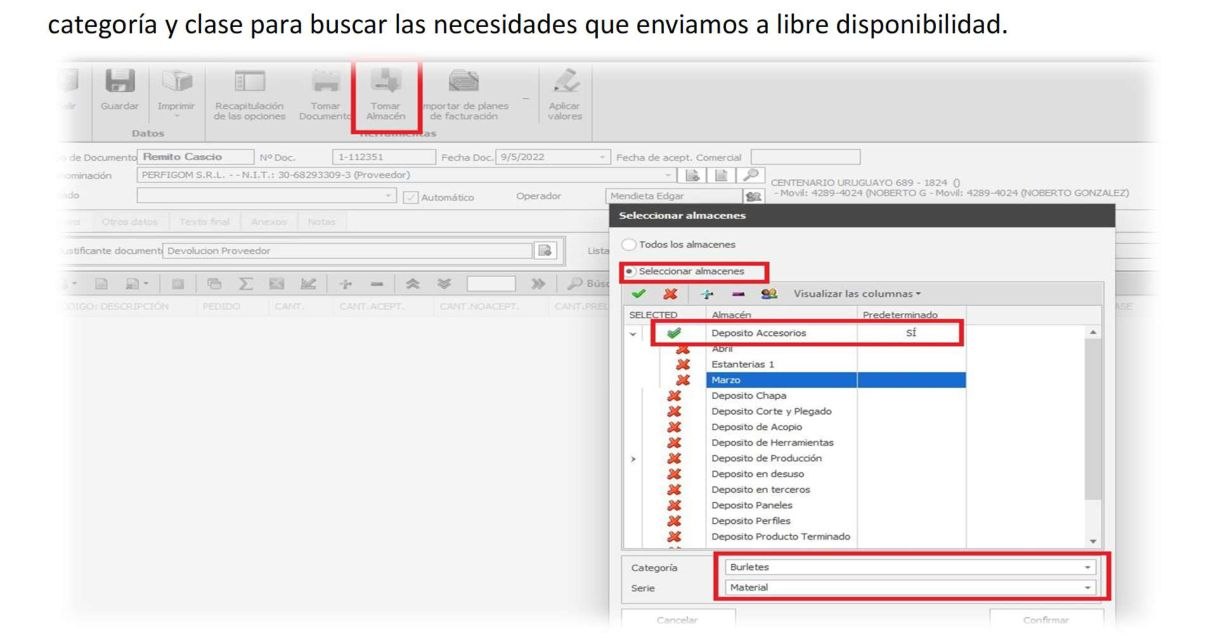
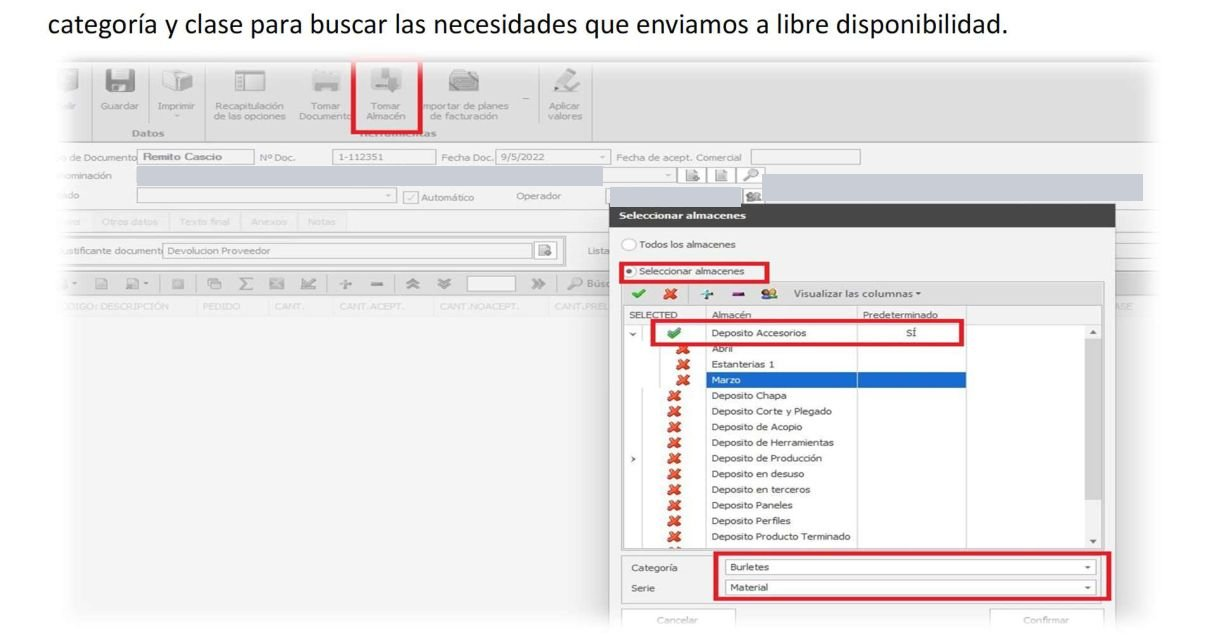
Versión 0.3: capturas con datos tapados y publicación en GitHub Pages
Claude-Session: https://claude.ai/code/session_01EoNv4eSFb2AGCLDC61AFfG

Changed region(s): [[0.0936, 0.25, 0.936, 0.3438]]

diff --git a/web/index.html b/web/index.html
@@ -5,6 +5,7 @@
 <meta name="viewport" content="width=device-width, initial-scale=1">
 <title>Guía FPGEST Cascio</title>
 <meta name="claude:viewport-fit-sides" content="cover">
+<meta name="robots" content="noindex, nofollow">
 <link rel="preconnect" href="https://fonts.googleapis.com">
 <link rel="stylesheet" href="https://fonts.googleapis.com/css2?family=IBM+Plex+Sans+Condensed:wght@500;600;700&family=IBM+Plex+Sans:ital,wght@0,400;0,500;0,600;1,400&family=IBM+Plex+Mono:wght@400;500&display=swap">
 <style>
@@ -362,6 +363,7 @@ section h2 { font-size: 21px; margin-bottom: 12px; }
   function renderPropuestas() {
     const pre = propPrefill || {};
     propPrefill = null;
+    if (P.formulario) { renderPropuestasFormulario(pre); return; }
     const guideOpts = D.modulos.map(m => m.guias.length
       ? `<optgroup label="${esc(m.titulo)}">${m.guias.map(g => `<option value="${esc(g.titulo)}"${pre.guia === g.id ? ' selected' : ''}>${esc(g.titulo)}</option>`).join('')}</optgroup>`
       : `<option value="Módulo ${esc(m.titulo)}">Módulo ${esc(m.titulo)} (en preparación)</option>`).join('');
@@ -457,6 +459,27 @@ section h2 { font-size: 21px; margin-bottom: 12px; }
       catch (_) { selectText(t); done(false); }
     };
   }
+  // Propuestas por formulario externo (Google Forms): se usa cuando datos.js tiene propuestas.formulario
+  function renderPropuestasFormulario(pre) {
+    const g = pre.guia && byId[pre.guia];
+    let url = P.formulario;
+    if (g && P.formularioCampoGuia) url += (url.includes('?') ? '&' : '?') + 'usp=pp_url&' + encodeURIComponent(P.formularioCampoGuia) + '=' + encodeURIComponent(g.titulo);
+    const plan = P.plan || [];
+    view.innerHTML = `
+      <div class="crumbs"><button type="button" data-go="">Inicio</button><span>/</span><span>Propuestas de mejora</span></div>
+      <div class="g-head"><h1>Propuestas de mejora</h1>
+        <p class="lead">¿Qué necesitás ver o hacer en el GEST que todavía no está en la guía? ¿Encontraste algo mal? Contalo en el formulario y se tiene en cuenta para la próxima actualización.</p></div>
+      <div class="panel guide-prop" style="border-top:1px solid var(--line)">
+        <div><b>${g ? 'Propuesta sobre: ' + esc(g.titulo) : 'Formulario de propuestas'}</b><p class="hint">Se abre en otra pestaña. Lleva dos minutos.</p></div>
+        <a class="btn" href="${esc(url)}" target="_blank" rel="noopener">Abrir el formulario</a>
+      </div>
+      <section><h2>Próximas actualizaciones</h2>
+        <div class="panel">${plan.length ? `<div class="road">${plan.map(r => `<div class="road-row"><b>${esc(r.titulo)}</b><span class="state ${esc(r.estado)}">${esc(ESTADOS[r.estado] || r.estado)}</span><small>${esc(r.detalle || '')}${r.pedido ? ' · Pedido por ' + esc(r.pedido) : ''}</small></div>`).join('')}</div>`
+          : `<p class="empty">Todavía no hay mejoras planificadas.</p>`}</div>
+      </section>`;
+    renderNav('propuestas');
+  }
+
   let bandejaFiltro = 'abiertas';
   async function renderBandeja() {
     view.innerHTML = `

diff --git a/web/datos.js b/web/datos.js
@@ -21,8 +21,8 @@
    ===================================================================== */
 
 window.GUIA_FPGEST = {
-  version: "0.2",
-  actualizado: "30/10/2026",
+  version: "0.3",
+  actualizado: "11/11/2026",
   autor: "",   // tu nombre, si querés que figure al pie
   fuente: "Implementación del ERP GEST (manual interno, 317 págs.)",
 
@@ -34,6 +34,11 @@ window.GUIA_FPGEST = {
        pedido: sector o persona que lo pidió (opcional) */
   propuestas: {
     direccion: "http://SERVIDOR:8080",
+    // Si la guía se publica en internet: pegar acá el enlace del formulario de Google.
+    // Con el enlace cargado, el botón "Proponer una mejora" abre el formulario (ya no usa el servidor).
+    formulario: "",
+    // Opcional: código del campo "Guía" del formulario (ej. "entry.123456789") para que llegue ya completo.
+    formularioCampoGuia: "",
     plan: [
       { titulo: "Videos en las guías", estado: "en-curso", detalle: "Ver el video del procedimiento desde cada guía, con acceso directo a cada paso." },
       { titulo: "Módulo Plantillas de importación", estado: "planificada", detalle: "Plantillas descargables, columnas obligatorias y errores típicos con su solución." },

diff --git a/README.md b/README.md
@@ -42,6 +42,24 @@ git remote add servidor F:\Emmegisoft\FPGEST_DATA\Guia_FPGEST_repo.git
 ```
 Después, cada tanto: `git push servidor main`.
 
+## Publicar en internet (GitHub Pages)
+
+La guía pública vive en **otro repositorio**, `guia-fpgest-web`, que contiene solo la carpeta `web/`.
+Este repositorio de trabajo queda **privado**: su historial guarda las capturas originales sin tapar.
+
+Una sola vez:
+1. Crear en GitHub el repositorio **público** `guia-fpgest-web` (vacío).
+2. Clonarlo **al lado** de este proyecto (misma carpeta padre).
+3. Doble clic en `herramientas/publicar_web.bat`.
+4. En GitHub → repositorio `guia-fpgest-web` → Settings → Pages → Source: *Deploy from a branch* → `main` / `/ (root)`.
+
+Cada vez que quieras actualizar la página: doble clic en `herramientas/publicar_web.bat`.
+
+Antes de publicar, siempre:
+- Toda captura nueva va con los datos tapados (proveedores, CUIT, precios, importes, clientes, obras, nombres de personas, direcciones y teléfonos).
+- El texto no nombra proveedores ni clientes reales, ni importes.
+- Los videos no se publican por esta vía.
+
 ## Cómo agregar una guía
 
 Copiar una guía existente en `web/datos.js` y cambiar sus campos:
@@ -63,6 +81,6 @@ Un módulo "en preparación" se activa solo cuando le cargás la primera guía.
 
 ## Reglas del repositorio
 
-- El repositorio es **local** (PC + servidor LAN). No subirlo a servicios externos: las capturas muestran proveedores, CUIT y datos internos.
+- Este repositorio de trabajo es **privado**. Lo público sale solo por `guia-fpgest-web`.
 - Una confirmación (commit) por cambio, con un mensaje claro: `Agrega guía Remito de venta`, `Corrige pasos de Rectificar kg`.
 - Al cerrar una versión, anotarla en `CHANGELOG.md` y subir el número en `web/datos.js` (`version`).

diff --git a/CHANGELOG.md b/CHANGELOG.md
@@ -1,5 +1,11 @@
 # Cambios
 
+## 0.3 — 11/11/2026
+- Capturas con los datos sensibles tapados (proveedores, CUIT, direcciones, teléfonos, clientes, importes, nombres de personas).
+- La página pide a los buscadores que no la indexen.
+- Propuestas por formulario de Google: se activa cargando el enlace en `datos.js` → `propuestas.formulario`.
+- `herramientas/publicar_web.bat` para publicar en GitHub Pages desde un repositorio público aparte.
+
 ## 0.2 — 30/10/2026
 - Nueva sección **Propuestas de mejora**: los usuarios cuentan qué necesitan ver o hacer, o qué está mal en una guía.
 - Las propuestas se **registran** en `propuestas/propuestas.csv` a través del servidor de la guía (`servidor/`, Python o Docker).
